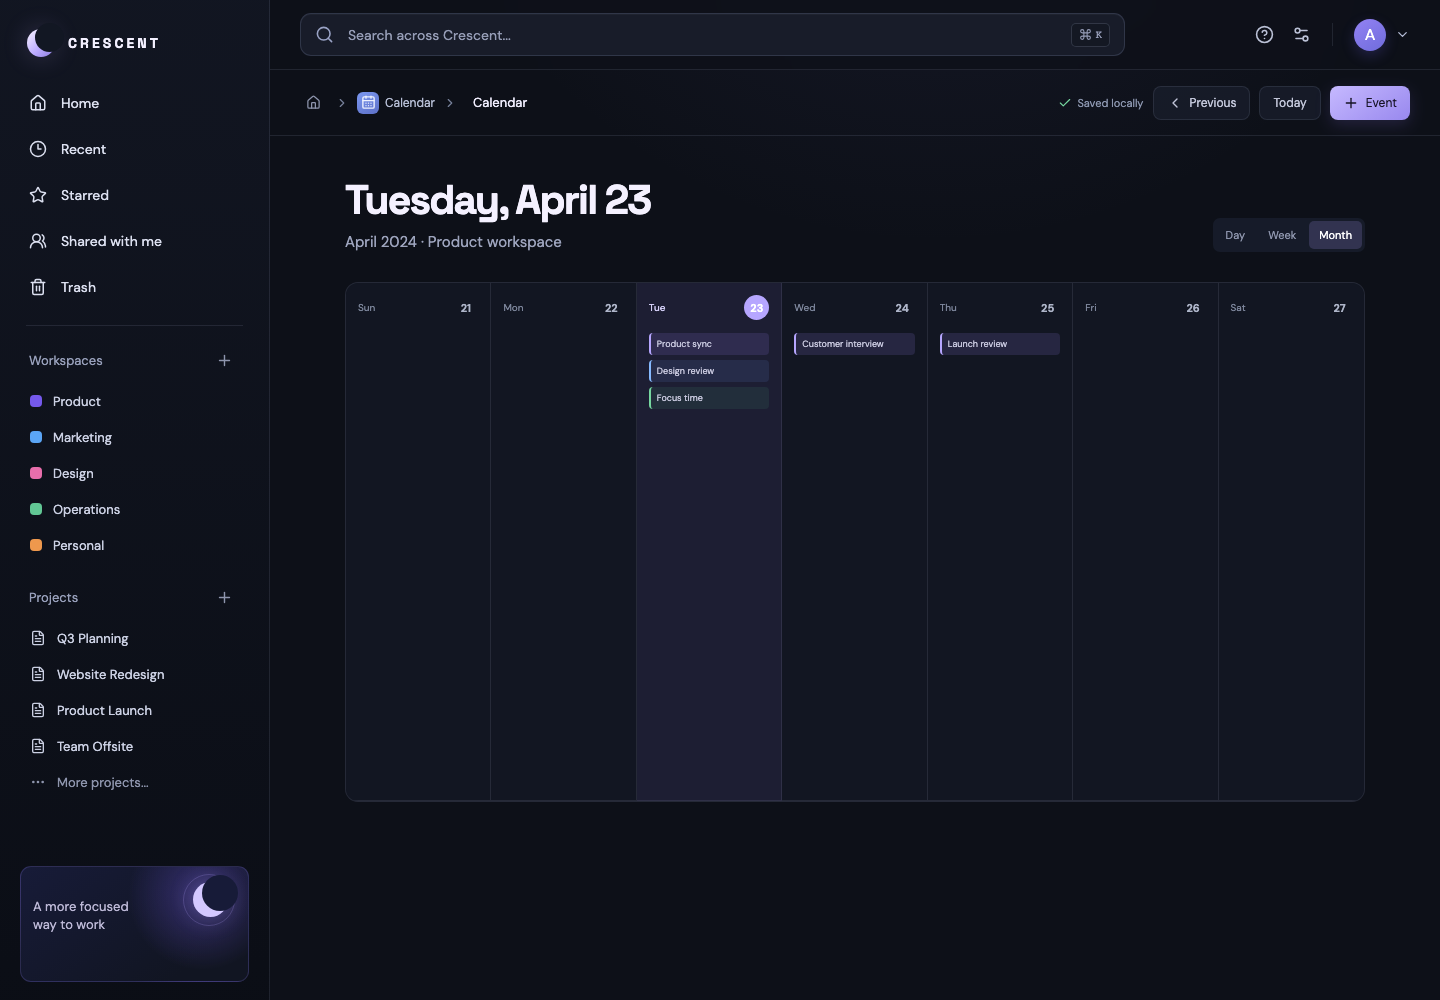
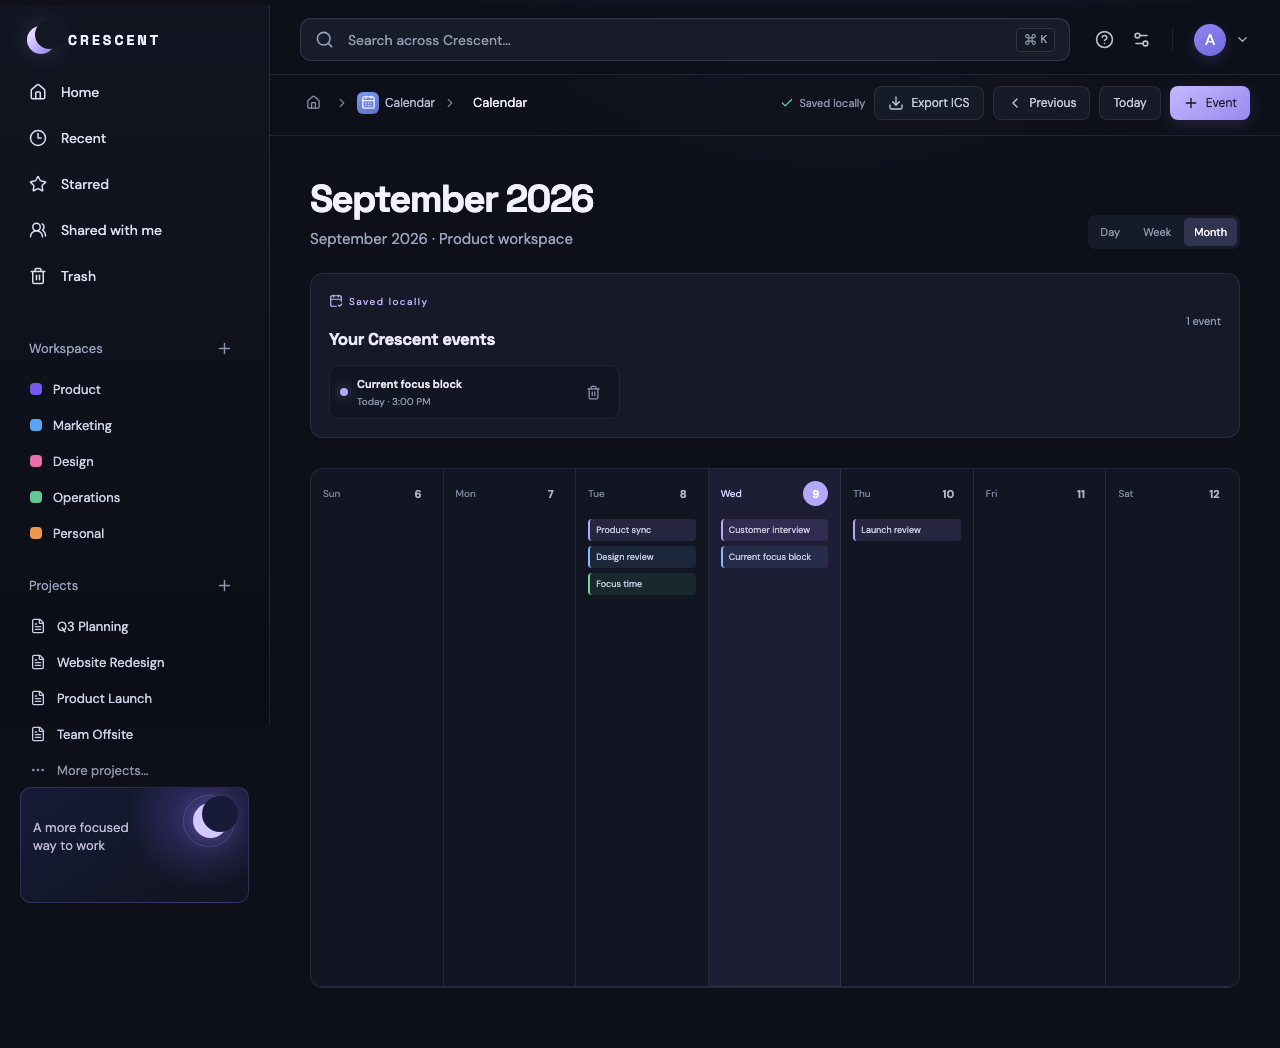
fix: place calendar events on saved dates

diff --git a/src/App.jsx b/src/App.jsx
@@ -424,7 +424,8 @@ function CalendarView({ workspace, update, onNavigate }) {
   const displayMonth = new Intl.DateTimeFormat("en-US", { month: "long", year: "numeric" }).format(displayDate);
   const shortDisplayDay = new Intl.DateTimeFormat("en-US", { weekday: "short" }).format(displayDate);
   const weekDates = [0, 1, 2].map((dayOffset) => { const date = new Date(displayDate); date.setDate(displayDate.getDate() + dayOffset); return date.getDate(); });
-  const monthDays = Array.from({ length: 7 }, (_, index) => { const date = new Date(displayDate); date.setDate(displayDate.getDate() - displayDate.getDay() + index); return { label: new Intl.DateTimeFormat("en-US", { weekday: "short" }).format(date), date: date.getDate(), events: index === 2 ? ["Product sync", "Design review", "Focus time", ...localEvents.map((event) => event.title)] : index === 3 ? ["Customer interview"] : index === 4 ? ["Launch review"] : [] }; });
+  const localEventsForDate = (date) => localEvents.filter((event) => event.date === date.toISOString().slice(0, 10)).map((event) => event.title);
+  const monthDays = Array.from({ length: 7 }, (_, index) => { const date = new Date(displayDate); date.setDate(displayDate.getDate() - displayDate.getDay() + index); const seededEvents = index === 2 ? ["Product sync", "Design review", "Focus time"] : index === 3 ? ["Customer interview"] : index === 4 ? ["Launch review"] : []; return { label: new Intl.DateTimeFormat("en-US", { weekday: "short" }).format(date), date: date.getDate(), events: [...seededEvents, ...localEventsForDate(date)] }; });
   const monthCalendar = <div className="calendar-month-grid">{monthDays.map((day) => <div className={`calendar-month-cell ${weekOffset === 0 && day.date === displayDate.getDate() ? "today" : ""}`} key={`${day.label}-${day.date}`}><div className="calendar-month-head"><span>{day.label}</span><strong>{day.date}</strong></div><div className="calendar-month-events">{day.events.map((event, index) => <span className={`calendar-month-event month-event-${index % 4}`} key={`${day.date}-${event}`}>{event}</span>)}</div></div>)}</div>;
   const weekCalendar = <div className={`calendar-grid ${mode === "day" ? "calendar-grid-day" : ""}`}><div className="calendar-axis"><span /><span>9 AM</span><span>10 AM</span><span>11 AM</span><span>12 PM</span><span>1 PM</span><span>2 PM</span><span>3 PM</span><span>4 PM</span><span>5 PM</span></div><div className="calendar-day"><div className="calendar-day-head"><span>{weekOffset === 0 ? "Today" : shortDisplayDay}</span><strong>{weekDates[0]}</strong></div><div className="calendar-lines">{Array.from({ length: 9 }, (_, index) => <span key={index} />)}<div className="calendar-event event-one"><strong>Product sync</strong><small>Team · 9:00–9:45</small></div><div className="calendar-event event-two"><strong>Design review</strong><small>Design · 10:00–11:00</small></div><div className="calendar-event event-three"><strong>Focus time</strong><small>Personal · 1:00–3:00</small></div><div className="calendar-event event-four"><strong>Marketing check-in</strong><small>Marketing · 4:00–4:30</small></div></div></div><div className="calendar-day muted-day"><div className="calendar-day-head"><span>{new Intl.DateTimeFormat("en-US", { weekday: "short" }).format(new Date(displayDate.getTime() + 86400000))}</span><strong>{weekDates[1]}</strong></div><div className="calendar-lines">{Array.from({ length: 9 }, (_, index) => <span key={index} />)}<div className="calendar-event event-five"><strong>Customer interview</strong><small>Research · 11:00–12:00</small></div></div></div><div className="calendar-day muted-day"><div className="calendar-day-head"><span>{new Intl.DateTimeFormat("en-US", { weekday: "short" }).format(new Date(displayDate.getTime() + 172800000))}</span><strong>{weekDates[2]}</strong></div><div className="calendar-lines">{Array.from({ length: 9 }, (_, index) => <span key={index} />)}<div className="calendar-event event-six"><strong>Launch review</strong><small>Product · 2:00–3:00</small></div></div></div></div>;
   return <div className="calendar-page page-enter"><EditorHeader title="Calendar" icon={APP_META.find((app) => app.id === "calendar")} onChangeTitle={() => {}} onNavigate={onNavigate}><button className="secondary-button" onClick={exportCalendar} disabled={!localEvents.length}><Download size={16} />Export ICS</button><button className="secondary-button" onClick={() => setWeekOffset((current) => current - 1)}><ChevronLeft size={16} />Previous</button><button className="secondary-button" onClick={() => setWeekOffset(0)}>Today</button><button className="primary-button" onClick={addEvent}><Plus size={16} />Event</button></EditorHeader><div className="calendar-content"><div className="calendar-heading"><div><h1>{mode === "month" ? displayMonth : displayHeading}</h1><p>{mode === "month" ? `${displayMonth} · Product workspace` : mode === "day" ? `${shortDisplayDay} · Product workspace` : `Week of ${displayHeading} · Product workspace`}</p></div><div className="calendar-switch"><button className={mode === "day" ? "selected" : ""} onClick={() => setMode("day")} aria-pressed={mode === "day"}>Day</button><button className={mode === "week" ? "selected" : ""} onClick={() => setMode("week")} aria-pressed={mode === "week"}>Week</button><button className={mode === "month" ? "selected" : ""} onClick={() => setMode("month")} aria-pressed={mode === "month"}>Month</button></div></div>{localEvents.length > 0 && <section className="calendar-local-events" aria-label="Saved local events"><div className="calendar-local-heading"><div><span className="utility-kicker"><CalendarCheck2 size={14} />Saved locally</span><h2>Your Crescent events</h2></div><small>{localEvents.length} event{localEvents.length === 1 ? "" : "s"}</small></div><div className="calendar-local-list">{localEvents.map((event) => <div className="calendar-local-card" key={event.id}><span className="calendar-local-dot" /><div><strong>{event.title}</strong><small>{event.when}</small></div><button className="icon-button muted" onClick={() => removeEvent(event.id)} aria-label={`Remove ${event.title}`}><Trash2 size={15} /></button></div>)}</div></section>}{mode === "month" ? monthCalendar : weekCalendar}</div></div>;

diff --git a/README.md b/README.md
@@ -4,7 +4,7 @@ An all-in-one productivity workspace built to keep the work in one calm, consist
 
 ## Current release
 
-**v0.1.78 — Calendar Today follows the browser date**
+**v0.1.79 — Calendar Month view honors saved event dates**
 
 The first release establishes the Crescent product shell and a local-first suite experience:
 
@@ -21,6 +21,7 @@ The first release establishes the Crescent product shell and a local-first suite
 - Home Activity’s “See all” now opens the shared Recent workspace instead of ending in a silent no-op
 - Local-only Share, Invite, Night mode, cell-link, and slide-design controls now provide explicit status feedback
 - Calendar Today, Previous, and new-event dates now follow the browser’s actual date instead of the seeded demo date
+- Calendar Month view now places saved local events in the matching stored day column
 - Home reflects saved local calendar events, and Forms keeps its published/response state across navigation
 - Global Search includes locally created tasks, Drive folders, and Calendar events with correct app routing
 - Tasks now filters between All, Today, Open, and Done from the shared editor header

diff --git a/docs/preview/README.md b/docs/preview/README.md
@@ -1,4 +1,4 @@
-# v0.1.78 visual preview
+# v0.1.79 visual preview
 
 These screenshots are committed with Crescent milestones so the product can be reviewed directly from GitHub. The live preview is deployed from `main` through GitHub Pages when Pages is enabled for the repository.
 
